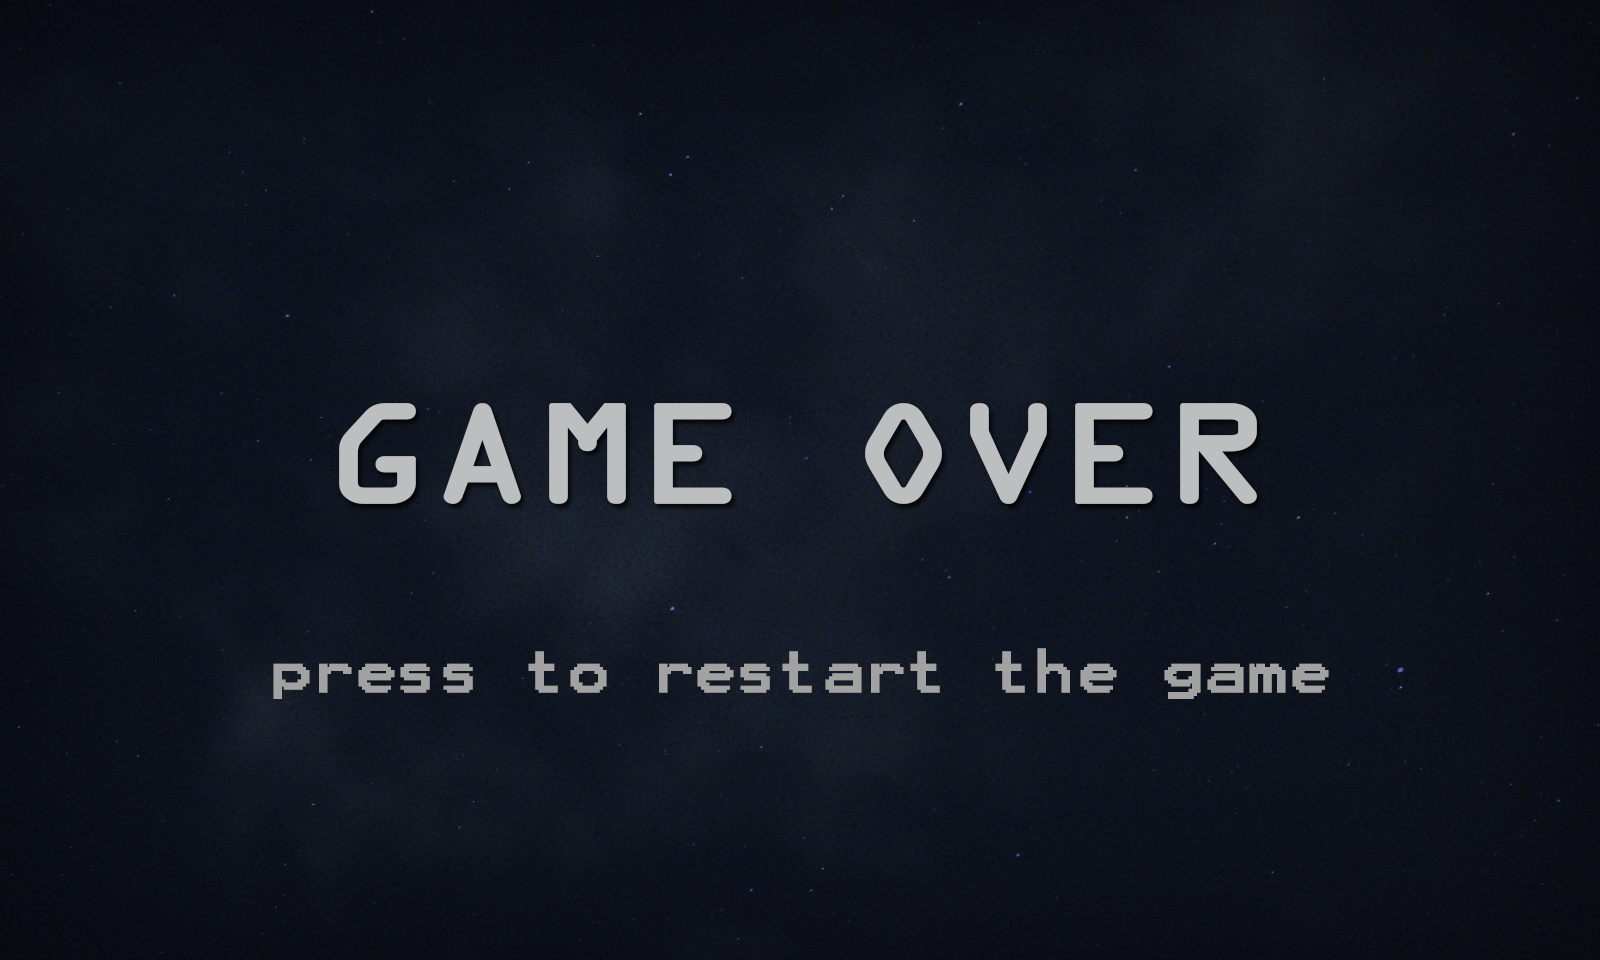
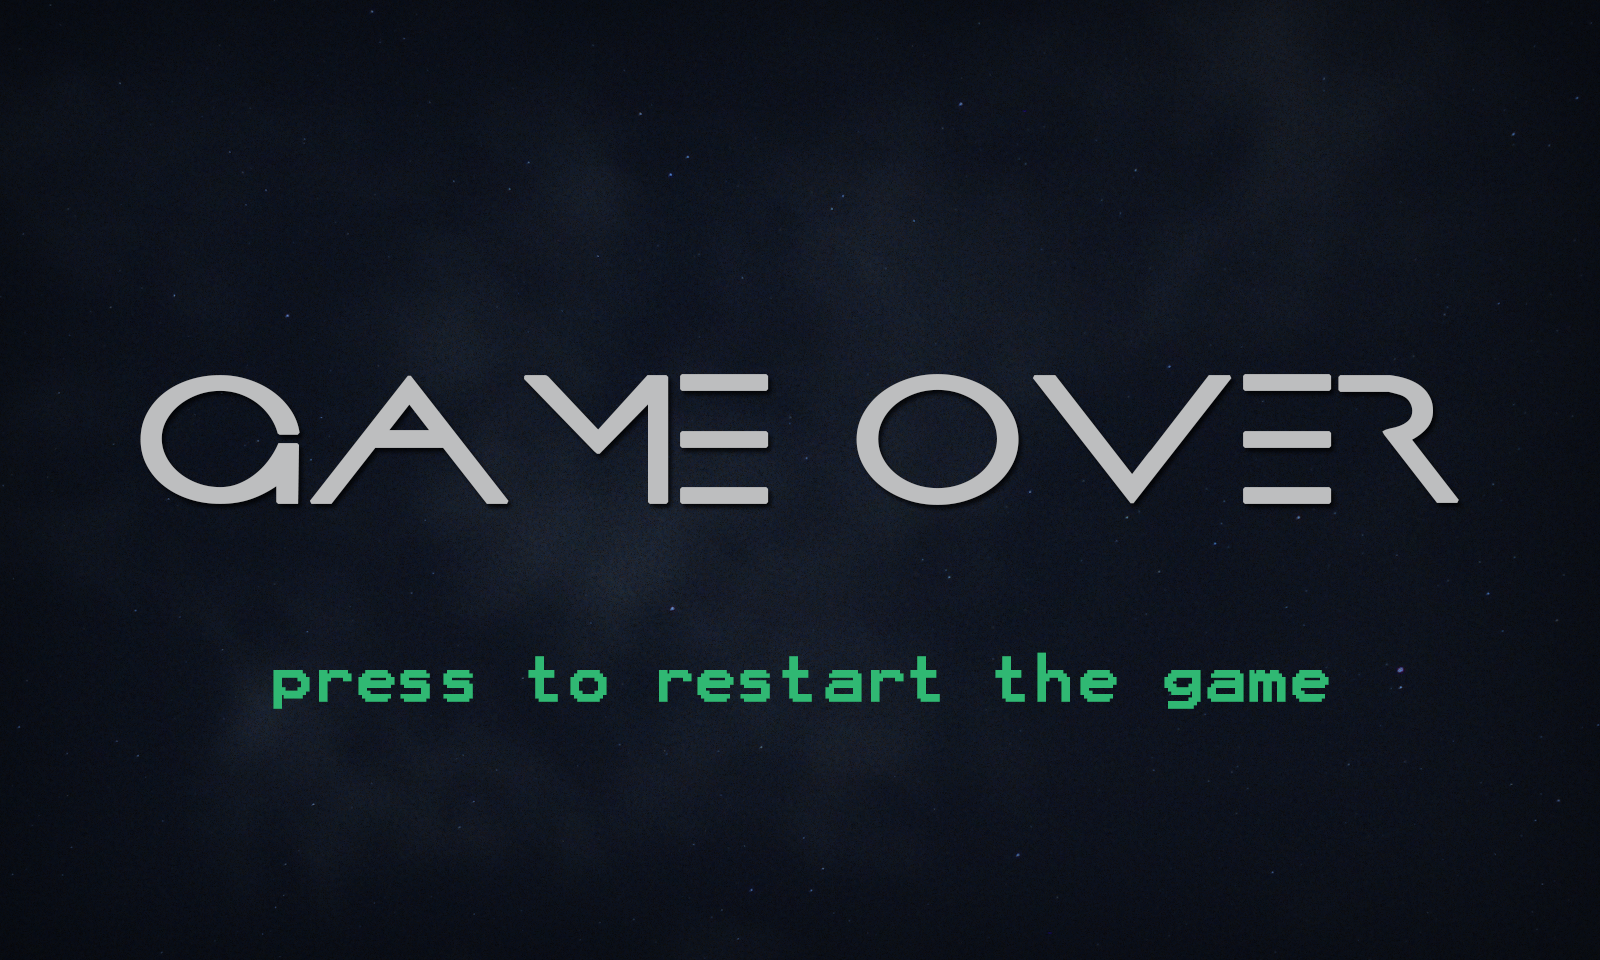
rules and font

diff --git a/core/src/org/academiadecodigo/std/screens/GameOverScreen.java b/core/src/org/academiadecodigo/std/screens/GameOverScreen.java
@@ -4,20 +4,17 @@ import com.badlogic.gdx.Gdx;
 import com.badlogic.gdx.Input;
 import com.badlogic.gdx.Screen;
 import com.badlogic.gdx.assets.AssetManager;
-import com.badlogic.gdx.audio.Music;
 import com.badlogic.gdx.graphics.Color;
 import com.badlogic.gdx.graphics.GL20;
 import com.badlogic.gdx.graphics.OrthographicCamera;
 import com.badlogic.gdx.graphics.Texture;
 import com.badlogic.gdx.graphics.g2d.BitmapFont;
-import com.badlogic.gdx.graphics.g2d.SpriteBatch;
 import com.badlogic.gdx.scenes.scene2d.Stage;
 import com.badlogic.gdx.scenes.scene2d.ui.Label;
 import com.badlogic.gdx.scenes.scene2d.ui.Table;
 import com.badlogic.gdx.utils.viewport.FitViewport;
 import com.badlogic.gdx.utils.viewport.Viewport;
 import org.academiadecodigo.std.Tumor;
-import javafx.scene.control.Tab;
 import org.academiadecodigo.std.scenes.Hud;
 
 import static com.badlogic.gdx.Gdx.graphics;
@@ -32,10 +29,6 @@ public class GameOverScreen implements Screen {
     private Viewport viewport;
 
     private AssetManager manager;
-    private Music music;
-    private BitmapFont font;
-
-    private int score;
 
     private Texture texture;
 
@@ -67,7 +60,7 @@ public class GameOverScreen implements Screen {
         winnerScore = new Label(winner + " wins, " + score + " cells were infected!", new Label.LabelStyle(new BitmapFont(), Color.LIGHT_GRAY));
         winnerScore.setFontScale(3f);
 
-        table.add(winnerScore).expandX().padTop(650);
+        table.add(winnerScore).expandX().padTop(640);
 
         stage.addActor(table);
 
